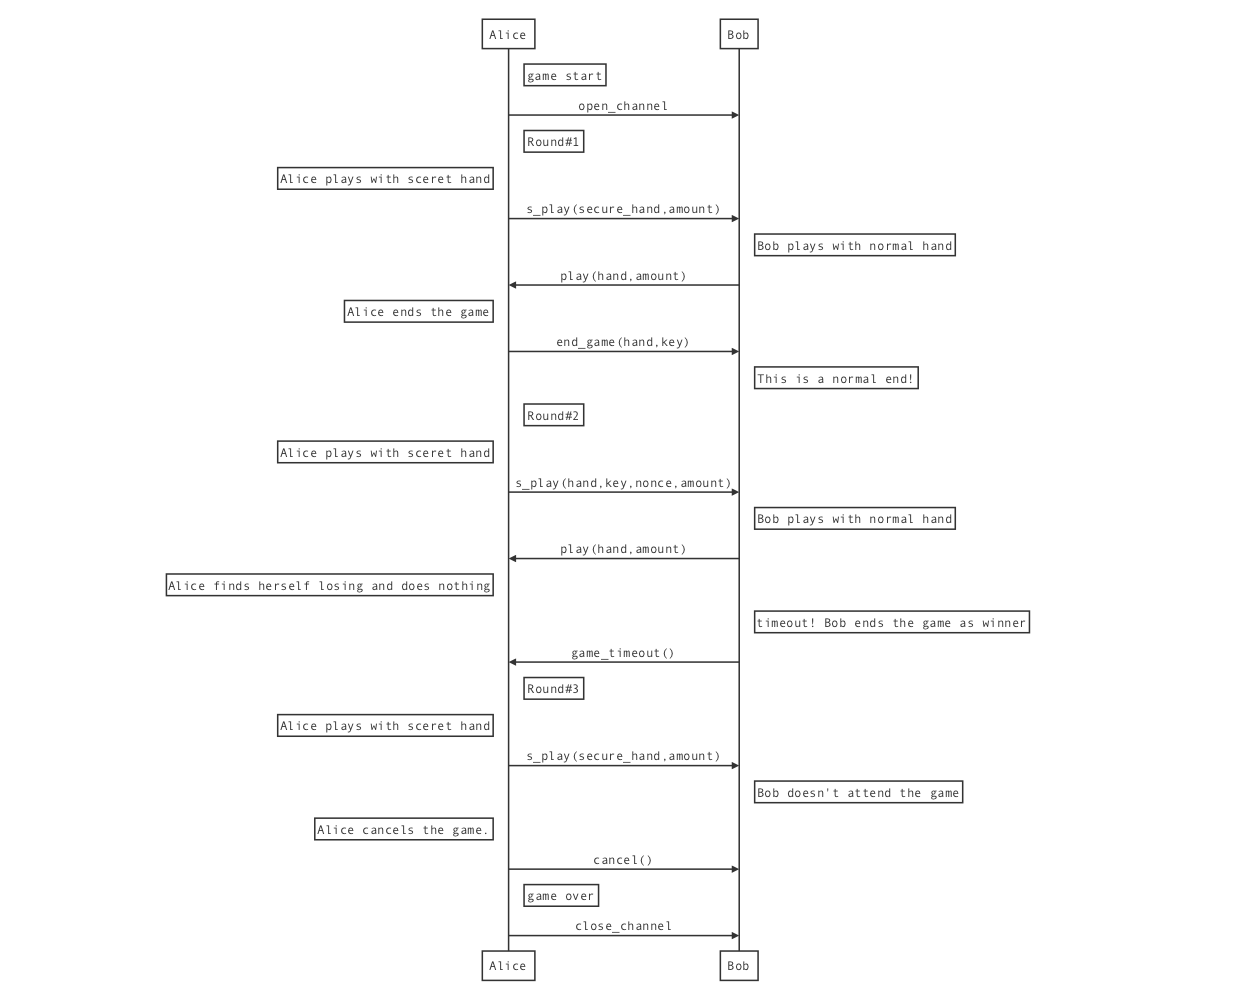
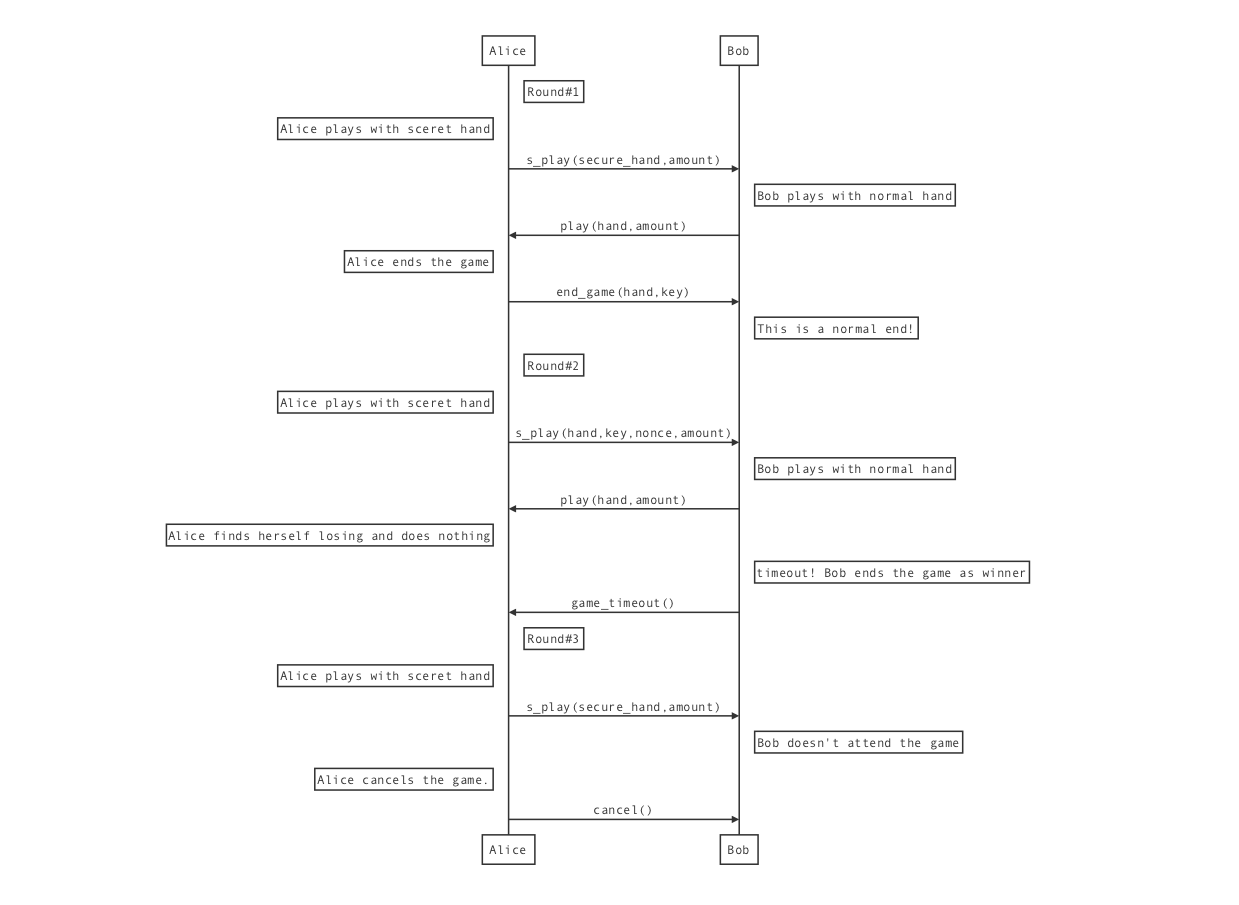
add script

diff --git a/demo/RockPaperScissors/README.md b/demo/RockPaperScissors/README.md
@@ -1,11 +1,43 @@
 # RockPaperScissors
 A smart contract demo written with libra move ir (.mvir).
 
-Scenarios:
+1. Deploy Module to Chain
+    In alice's cli
+    ```
+    dev dm demo/RockPaperScissors/module/rps.mvir
+
+    ```
+
+2. Install Script to Node
+    Change all {{starlab}} in demo/RockPaperScissors/scripts to alice's address,then in both cli execute
+    ```
+    dev ip demo/RockPaperScissors/scripts
+
+    ```
+
+3. Execute Scripts
+
+     Alice plays with secret hand in her cli.
+     "bde750a..." is the normal hand "72" (hex of "r"(石头)) encrypted with a key "616263"(hex of "abc").
+     Specifically, secret hand is the sha3_256 result of "normal_hand+key".
+     20 is her tokens.
+    ```
[1 lines of base64/hex data omitted]
+    ```
+     Bob plays with normal hand in his cli. "70" is hex of "p"(剪刀), 10 is his tokens.
+    ```
+    dev pe {alice} scripts rps_player_2 b"70" 10
+    ```
+     Finally alice ends the game with the hand she has just played. "72" is hex of "r"(石头) and "616263" is the hex of the key "adc".
+    ```
+    dev pe {bob} scripts rps_end_game b"72" b"616263"
+    ```
+
+4. There are also other scenarios you can try:
 
 ![scenario](./img/scenario.png)
 
-State transition：
+5. For the developer who is interested in the RockPaperScissors module internal, please refer below State transition graph：
 
 ![state](./img/state.png)
 

diff --git a/gettingstarted.md b/gettingstarted.md
@@ -1,11 +1,10 @@
 # Getting started
 
-## Required
-+ Rust >= "1.35.0"
-+ Cargo >= "1.35.0"
-
 ## Compile project
 ```
+cd stargage
+./libra/scripts/dev_setup.sh
+source ~/.cargo/env
 cargo build
 ```
 
@@ -100,6 +99,8 @@ a s
 
     ```
 ## Channel Contract
+A game Rock-Paper-Scissors is used to demonstrate the channel contract.
+
 1. Deploy Module to Chain
     In alice's cli
     ```
@@ -129,4 +130,4 @@ a s
    ```
    dev pe {bob} scripts rps_end_game b"72" b"616263"
    ```
-   After the game end,you could check channel balance.Alice lose the game,so balance of her should be origin balance minus 10,balance of bob should be his origin balance plus 10.
+   After the game end,you could check channel balance.Alice lose the game,so balance of her should be origin balance minus 10,balance of bob should be his origin balance plus 10. A detailed description of the contract can be found [here](./demo/RockPaperScissors/README.md).

diff --git a/demo/RockPaperScissors/img/scenario.md b/demo/RockPaperScissors/img/scenario.md
@@ -1,8 +1,5 @@
 
 ```sequence
-Note right of Alice: game start
-Alice->Bob: open_channel
-
 Note right of Alice: Round#1
 Note left of Alice: Alice plays with sceret hand
 Alice->Bob: s_play(secure_hand,amount)
@@ -27,9 +24,6 @@ Alice->Bob: s_play(secure_hand,amount)
 Note right of Bob: Bob doesn't attend the game
 Note left of Alice: Alice cancels the game.
 Alice->Bob: cancel()
-
-Note right of Alice: game over
-Alice->Bob: close_channel
 
 ```
 
